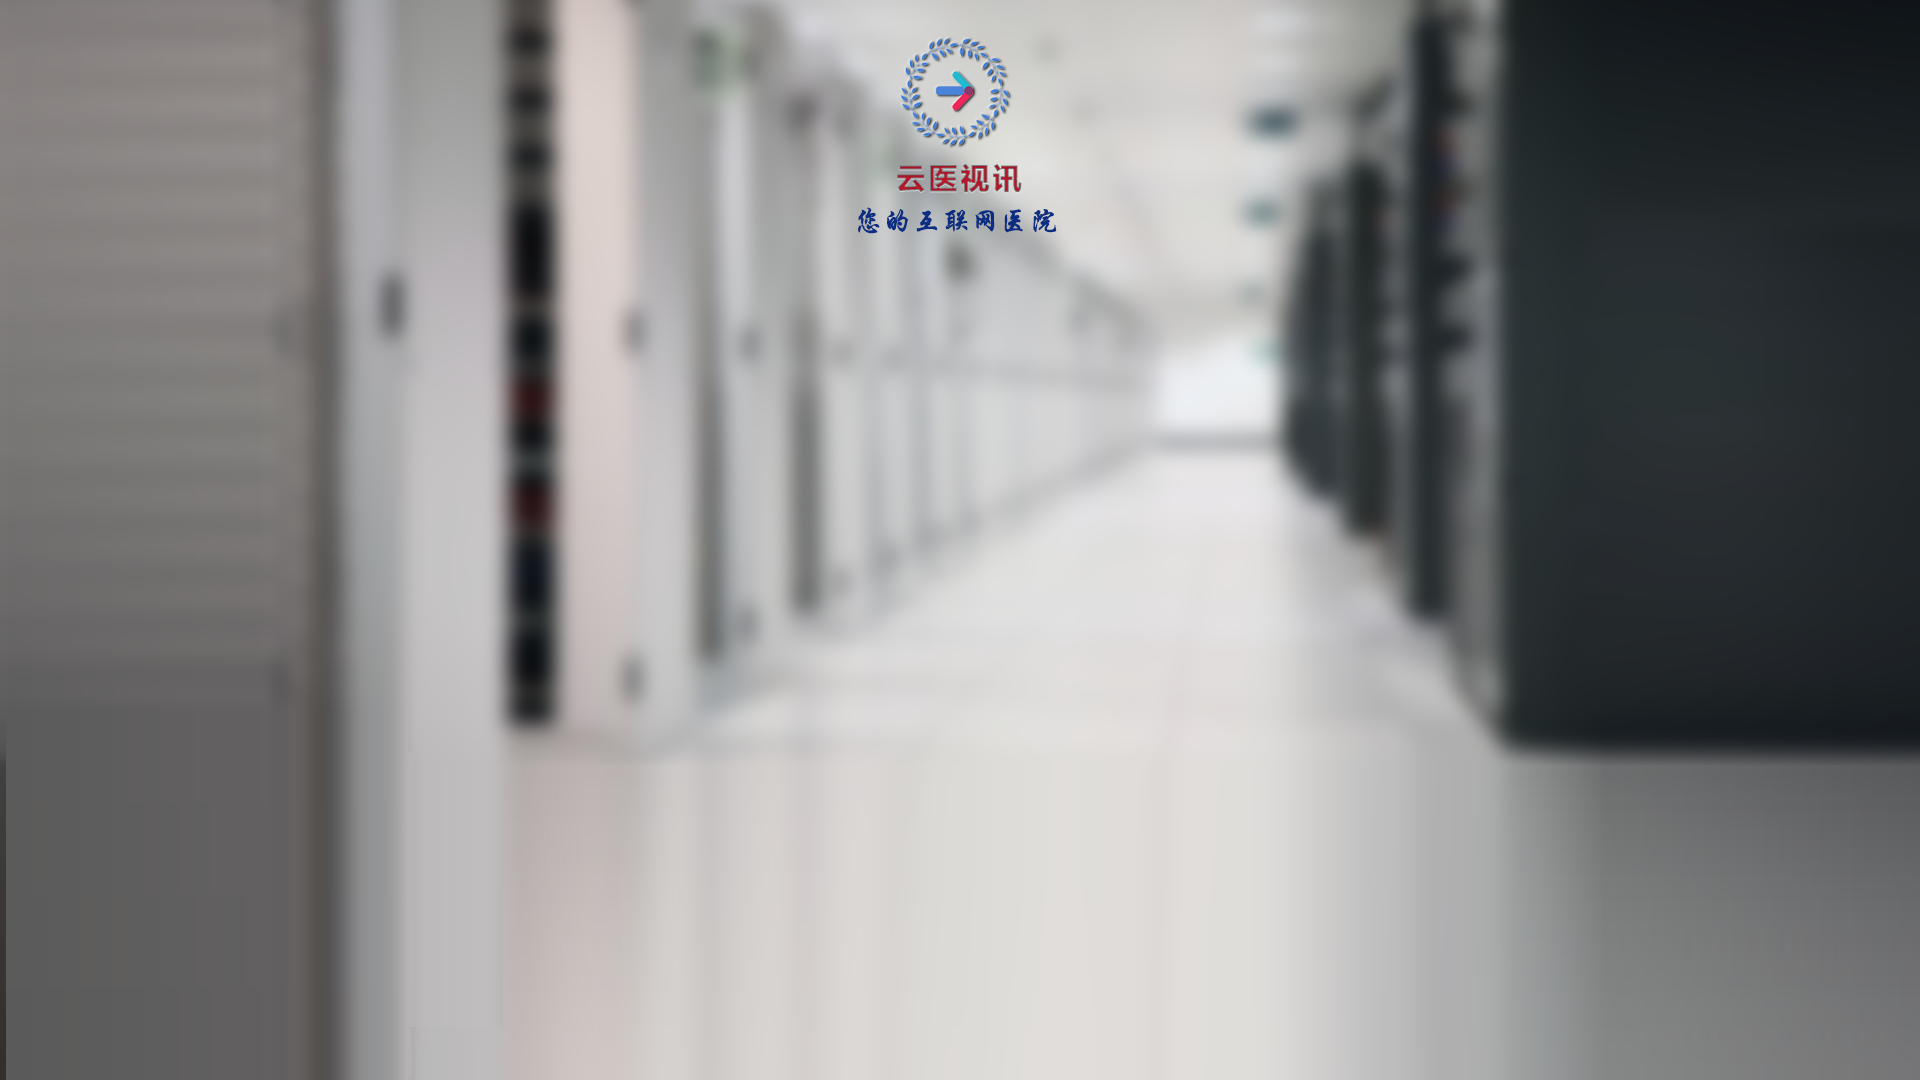
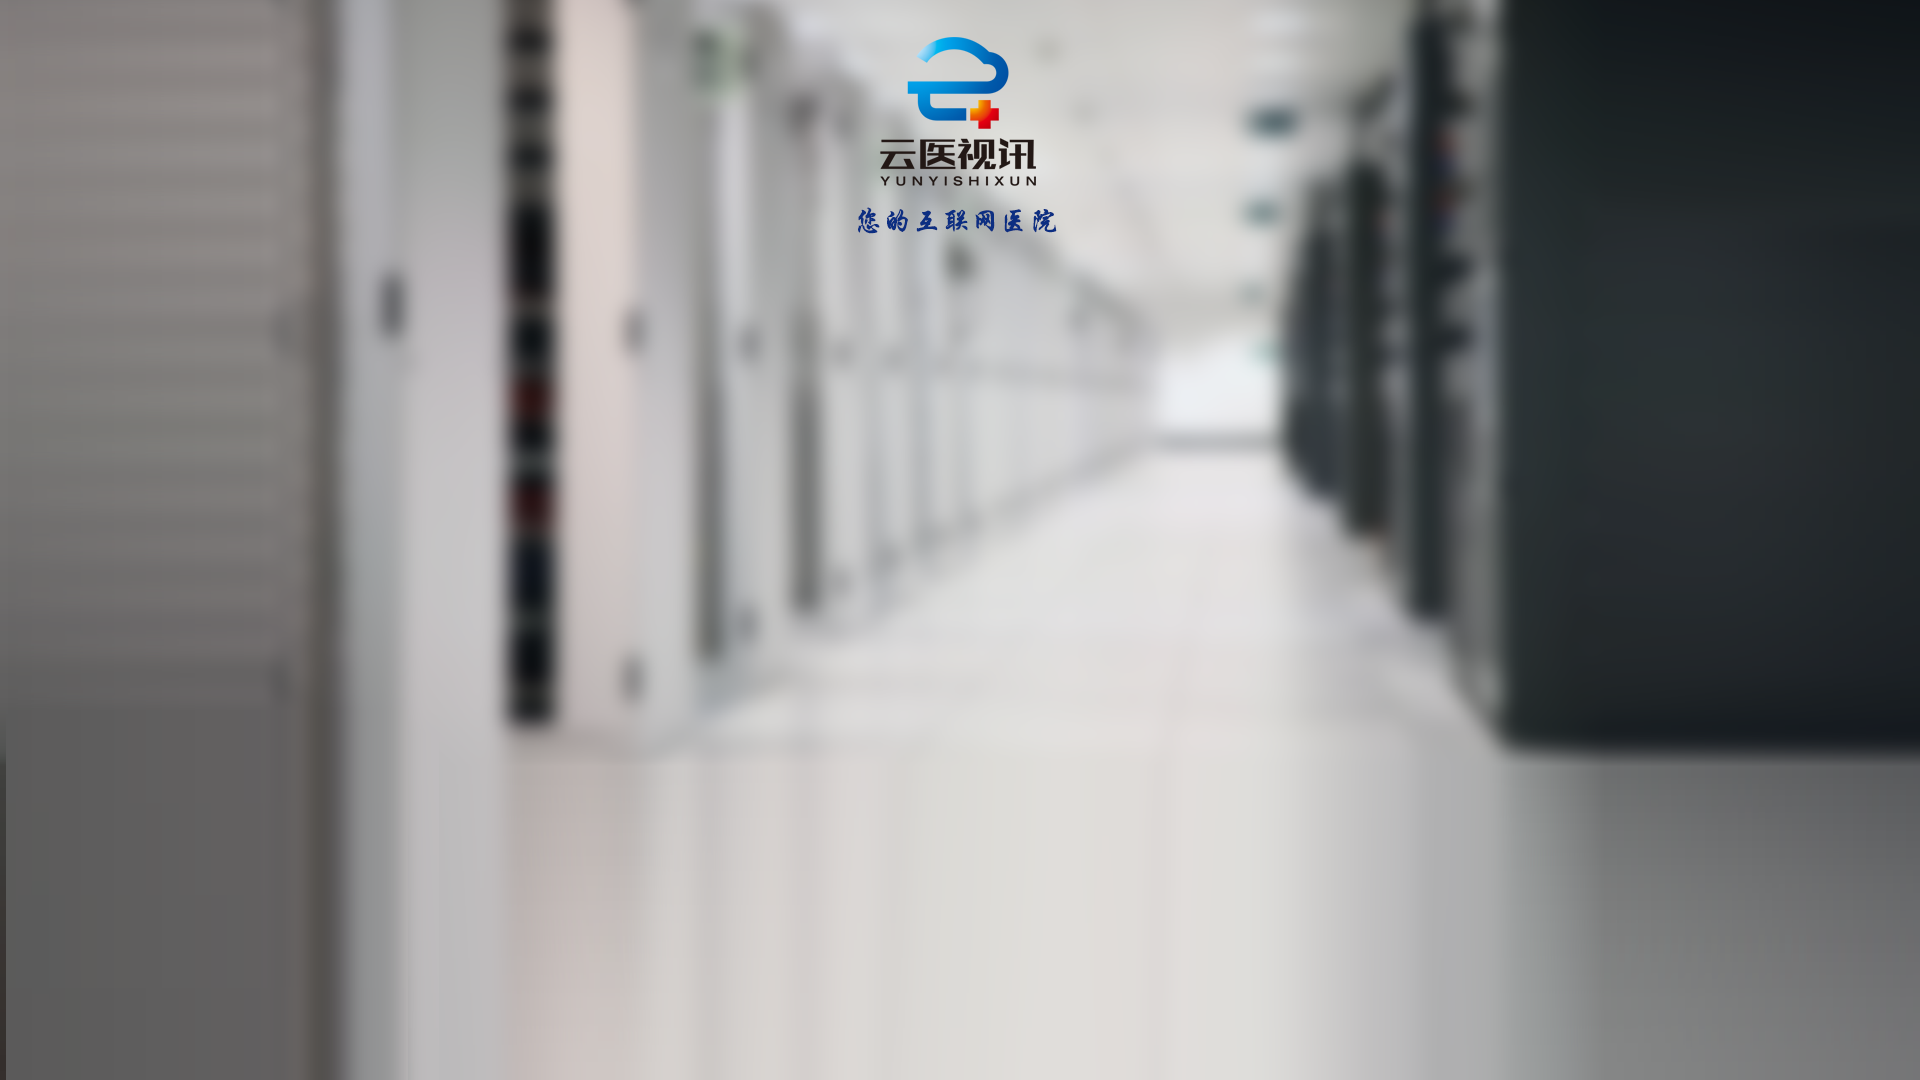
Logo替换

Changed region(s): [[0.4375, 0.0306, 0.5625, 0.1833]]

diff --git a/videotreat_test/Public/js/meeting.js b/videotreat_test/Public/js/meeting.js
@@ -7,7 +7,7 @@
         mainContainerHeight = wraperHeight;
     }
     $('.main-container').css({
-        height: (mainContainerHeight-50)+'px'
+        height: (mainContainerHeight - 50) + 'px'
     });
     $('#video-container').css({
         width: $('.main-container').width(),
@@ -37,7 +37,7 @@
 
         if (!key) {
             $.alert("没有指定供应商的key.");
-            window.location.href='http://download.agora.io/sdk/Agora_Native_SDK_for_Web_v1_7_0.zip';
+            window.location.href = 'http://download.agora.io/sdk/Agora_Native_SDK_for_Web_v1_7_0.zip';
             return;
         }
 
@@ -57,36 +57,19 @@
                 localStream.enableAudio();
             }
             $(".mute-button img").off("hover");
-             if (disableAudio) {
-                 localStream.disableAudio();
-                 $(e.target).attr("src", root + "/Public/Agora/images/btn_mute_blue@2x.png");
-             } else {
-                 localStream.enableAudio();
-                 $(e.target).attr("src",root + "/Public/Agora/images/btn_mute@2x.png");
-             }
+            if (disableAudio) {
+                localStream.disableAudio();
+                $(e.target).attr("src", root + "/Public/Agora/images/btn_mute_blue@2x.png");
+            } else {
+                localStream.enableAudio();
+                $(e.target).attr("src", root + "/Public/Agora/images/btn_mute@2x.png");
+            }
         });
 
-
-        /*结束视频*/
-        $(".end-call-button").click(function () {
+        function closeVideo(){
             var userId = window.opener.document.getElementById("userIdUp").value;
             var doctorId = window.opener.document.getElementById("doctorIdUp").value;
             if (confirm("确定结束视频吗？")) {
-
-                var viewportWidth = $(window).width(),
-                    viewportHeight = $(window).height(),
-                    curResolution = getResolutionArray(resolution),
-                    width,
-                    height,
-                    newWidth,
-                    newHeight,
-                    ratioWindow,
-                    ratioVideo;
-                //alert(viewportHeight)
-                //alert(viewportHeight)
-                //alert(curResolution)
-                //alert(width)
-                //alert(123)
                 $.ajax({
                     url: app + '/VideoHangUp/disconnect',
                     type: "post",
@@ -100,6 +83,10 @@
                     }
                 });
             }
+        }
+        /*结束视频*/
+        $(".end-call-button").click(function () {
+            closeVideo();
         });
 
         /* 加入频道 */
@@ -136,10 +123,14 @@
                 }
             });
         }());
-        subscribeStreamEvents();   /*远程音视频流已添加事件(stream-added) */
-        subscribeMouseHoverEvents();  /*订阅鼠标划过事件*/
-        subscribeWindowResizeEvent();  /*订阅窗口大小重置事件*/
-        attachExitFullscreenEvent();   /*监听退出全屏事件*/
+        subscribeStreamEvents();
+        /*远程音视频流已添加事件(stream-added) */
+        subscribeMouseHoverEvents();
+        /*订阅鼠标划过事件*/
+        subscribeWindowResizeEvent();
+        /*订阅窗口大小重置事件*/
+        attachExitFullscreenEvent();
+        /*监听退出全屏事件*/
 
         /*监听退出全屏事件*/
 
@@ -498,30 +489,6 @@
             }
         }
 
-        /*切换全屏按钮*/
-        function toggleFullscreenButton(show, parent) {
-            if (parent) {
-                $(parent + " .fullscreen-button").parent().toggle(show);
-                $(parent + " .fullscreen-button, " + parent + " .fullscreen-button>img").toggle(show);
-            } else {
-                $("#video-container .fullscreen-button").parent().toggle(show);
-                $("#video-container .fullscreen-button, #video-container .fullscreen-button>img").toggle(show);
-            }
-        }
-
-        /*切换扩展按钮*/
-        function toggleExpensionButton(show, parent) {
-            if (parent) {
-                $(parent + " .expension-button").parent().toggle(show);
-                $(parent + " .expension-button, " + parent + " .expension-button>img").toggle(show);
-            } else {
-                $("#video-container .expension-button").toggle(show);
-                $("#video-container .expension-button, #video-container .expension-button>img").toggle(show);
-            }
-        }
-
-
-
         /*一方离开时，显示视频流*/
         function showStreamOnPeerLeave(streamId) {
             var size;
@@ -655,13 +622,49 @@
             $("div[id^='bar_']").remove();
         }
 
-        /*远程音视频流已添加事件(stream-added) */
+        function startVideo() {
+            var videoDuration = 600;   //系统参数，视频持续时间
+            var minute, second, showTime;
+            var Obj = window.setInterval(time_subtract, 1000);
+
+            function time_subtract() {
+                minute = Math.floor(videoDuration / 60);
+                second = videoDuration % 60;
+                if (second < 10) {
+                    second = "0" + second;
+                }
+                showTime = minute + ':' + second;
+                videoDuration = videoDuration - 1;
+                $("#minute_countDown").text(showTime);
+                if (minute == 2 && second == '00') {
+                    $('#minute_countDown').after("  视频还剩下2分钟，请尽快");
+                }
+                if (minute == 0 && second == '00') {
+                    var userId = window.opener.document.getElementById("userIdUp").value;
+                    var doctorId = window.opener.document.getElementById("doctorIdUp").value;
+                    $.ajax({
+                        url: app + '/VideoHangUp/disconnect',
+                        type: "post",
+                        data: {
+                            userId: userId,
+                            doctorId: doctorId
+                        },
+                        success: function (data) {
+                            window.clearInterval(Obj);
+                            window.close();
+                        }
+                    });
+                }
+            }
+        }
+
+
         function subscribeStreamEvents() {
+            /*远程音视频流已添加事件(stream-added) */
             client.on('stream-added', function (evt) {
                 var stream = evt.stream;
-                console.log("New stream added: " + stream.getId());
-                console.log("Timestamp: " + Date.now());
-                console.log("Subscribe ", stream);
+                startVideo();        /*视频开始，开始计时*/
+
                 client.subscribe(stream, function (err) {
                     console.log("Subscribe stream failed", err);
                 });
@@ -669,6 +672,7 @@
 
             /*远端用户已离开房间事件(peer-leave) */
             client.on('peer-leave', function (evt) {
+                closeVideo();       /*手机用户离开，关闭视频*/
                 console.log("Peer has left: " + evt.uid);
                 console.log("Timestamp: " + Date.now());
                 console.log(evt);

diff --git a/videotreat_test/App/Home/Tpl/Meeting/index.html b/videotreat_test/App/Home/Tpl/Meeting/index.html
@@ -133,19 +133,14 @@
                 <div class="toolbar">
                     <ul>
                         <li>
-                            <a class="mute-button" href="#">
+                            <div class="mute-button" href="#">
                                 <img src="__ROOT__/Public/Agora/images/btn_mute@2x.png" alt="Mute">
-                            </a>
+                            </div>
                         </li>
                         <li>
-                            <a class="end-call-button" href="#">
+                            <div class="end-call-button" href="#">
                                 <img src="__ROOT__/Public/Agora/images/btn_endcall@2x.png" alt="End">
-                            </a>
-                        </li>
-                        <li>
-                            <a class="fullscreen-button" href="#">
-                                <input type="button" value="全屏">
-                            </a>
+                            </div>
                         </li>
                     </ul>
                 </div>
@@ -165,41 +160,7 @@
 <!--<script src="__ROOT__/Public/Agora/js/vendor-bundle.js"></script>-->
 <script src="__ROOT__/Public/js/meeting.js"></script>
 <script>
-    $(function () {
-        var videoDuration =  '{$videoDuration}';   //系统参数，视频持续时间
-        var minute, second, showTime;
-        var Obj = window.setInterval(time_subtract, 1000);
-        function time_subtract() {
-            minute = Math.floor(videoDuration / 60);
-            second = videoDuration % 60;
-            if (second < 10) {
-                second = "0" + second;
-            }
-            showTime = minute + ':' + second;
-            videoDuration = videoDuration - 1;
-            $("#minute_countDown").text(showTime);
-            if (minute == 2 && second == '00') {
-                $('#minute_countDown').after("  视频还剩下2分钟，请尽快");
-            }
-            if (minute == 0 && second == '00') {
-                var userId = window.opener.document.getElementById("userIdUp").value;
-                var doctorId = window.opener.document.getElementById("doctorIdUp").value;
-                $.ajax({
-                    url: app + '/VideoHangUp/disconnect',
-                    type: "post",
-                    data: {
-                        userId: userId,
-                        doctorId: doctorId
-                    },
-                    success: function (data) {
-                        window.clearInterval(Obj);
-                        window.close();
-                    }
-                });
-            }
-        }
-    });
-
+    var videoDuration = '{$videoDuration}';
 </script>
 <script>
     if ('addEventListener' in window) {

diff --git a/videotreat_test/App/Home/Runtime/Cache/8fe77ff8fb6b348eb819fa2994727622.php b/videotreat_test/App/Home/Runtime/Cache/8fe77ff8fb6b348eb819fa2994727622.php
@@ -133,19 +133,14 @@
                 <div class="toolbar">
                     <ul>
                         <li>
-                            <a class="mute-button" href="#">
+                            <div class="mute-button" href="#">
                                 <img src="__ROOT__/Public/Agora/images/btn_mute@2x.png" alt="Mute">
-                            </a>
+                            </div>
                         </li>
                         <li>
-                            <a class="end-call-button" href="#">
+                            <div class="end-call-button" href="#">
                                 <img src="__ROOT__/Public/Agora/images/btn_endcall@2x.png" alt="End">
-                            </a>
-                        </li>
-                        <li>
-                            <a class="fullscreen-button" href="#">
-                                <input type="button" value="全屏">
-                            </a>
+                            </div>
                         </li>
                     </ul>
                 </div>
@@ -165,41 +160,7 @@
 <!--<script src="__ROOT__/Public/Agora/js/vendor-bundle.js"></script>-->
 <script src="__ROOT__/Public/js/meeting.js"></script>
 <script>
-    $(function () {
-        var videoDuration =  '<?php echo ($videoDuration); ?>';   //系统参数，视频持续时间
-        var minute, second, showTime;
-        var Obj = window.setInterval(time_subtract, 1000);
-        function time_subtract() {
-            minute = Math.floor(videoDuration / 60);
-            second = videoDuration % 60;
-            if (second < 10) {
-                second = "0" + second;
-            }
-            showTime = minute + ':' + second;
-            videoDuration = videoDuration - 1;
-            $("#minute_countDown").text(showTime);
-            if (minute == 2 && second == '00') {
-                $('#minute_countDown').after("  视频还剩下2分钟，请尽快");
-            }
-            if (minute == 0 && second == '00') {
-                var userId = window.opener.document.getElementById("userIdUp").value;
-                var doctorId = window.opener.document.getElementById("doctorIdUp").value;
-                $.ajax({
-                    url: app + '/VideoHangUp/disconnect',
-                    type: "post",
-                    data: {
-                        userId: userId,
-                        doctorId: doctorId
-                    },
-                    success: function (data) {
-                        window.clearInterval(Obj);
-                        window.close();
-                    }
-                });
-            }
-        }
-    });
-
+    var videoDuration = '<?php echo ($videoDuration); ?>';
 </script>
 <script>
     if ('addEventListener' in window) {

diff --git a/videotreat_test/App/Home/Lib/Action/Interface/UserThirdPartyLoginAction.class.php b/videotreat_test/App/Home/Lib/Action/Interface/UserThirdPartyLoginAction.class.php
@@ -54,20 +54,16 @@ class UserThirdPartyLoginAction extends Action
 
         /*非首次登录  只需要找到userId 把imei存进表中*/
         if ($thirdPartyInfo) {
-
             $userId = $thirdPartyInfo['userId'];
-            $data['imei'] = $imei;
-            $data['userId'] = $userId;
-            $data['client'] = $client;
-            $result = M("user_db_info")->where("userId='%d'", $userId)->save($data);
-            if ($result) {
-                $code = 1;
-                $message = "第三方" . $type . "非首次登录成功";
-            } else {
-                $code = 0;
-                $message = "第三方" . $type . "非首次登录失败";
+            $old_imei = M("user_db_info")->where("userId={$userId}")->getField("imei");
+            if ($old_imei == '') {
+                $data['imei'] = $imei;
+                $data['userId'] = $userId;
+                $data['client'] = $client;
+                M("user_db_info")->where("userId='%d'", $userId)->save($data);
             }
-
+            $code = 1;
+            $message = "第三方" . $type . "非首次登录成功";
         } else {                          /*首次登录 */
             $data['userName'] = $nickName;
             $data['sex_key'] = $gender;

diff --git a/videotreat_test/App/Home/Lib/Action/Interface/ModFriendListAction.class.php b/videotreat_test/App/Home/Lib/Action/Interface/ModFriendListAction.class.php
@@ -45,7 +45,7 @@ class ModFriendListAction extends Action
         $userImageUrl = '';//用户头像地址
         if ($info) {
             /*删除以前的头像*/
-            $del_headPicInfo = M("user_base_info")->field('headPic')->where("userId={$userId}")->find();
+            $del_headPicInfo = M("user_base_info")->field('headPic')->where("userId={$friendUserId}")->find();
             if ($del_headPicInfo) {
                 $del_fileName = substr($del_headPicInfo['headPic'], strrpos($del_headPicInfo['headPic'], 'Public'));
                 unlink($del_fileName);

diff --git a/videotreat_test/App/Home/Lib/Action/Interface/UserRegisterLoginAction.class.php b/videotreat_test/App/Home/Lib/Action/Interface/UserRegisterLoginAction.class.php
@@ -88,8 +88,6 @@ class UserRegisterLoginAction extends Action
                     M("user_db_info")->where("userId={$userId}")->save($newPwd);
                 }
                 $newPwd['password'] = $password;
-                $userId = $userInfo['userId'];
-                $newPwd['password'] = $password;
                 $result = M("user_db_info")->where("userId={$userId}")->save($newPwd);
                 if ($result) {
                     $code = 1;
